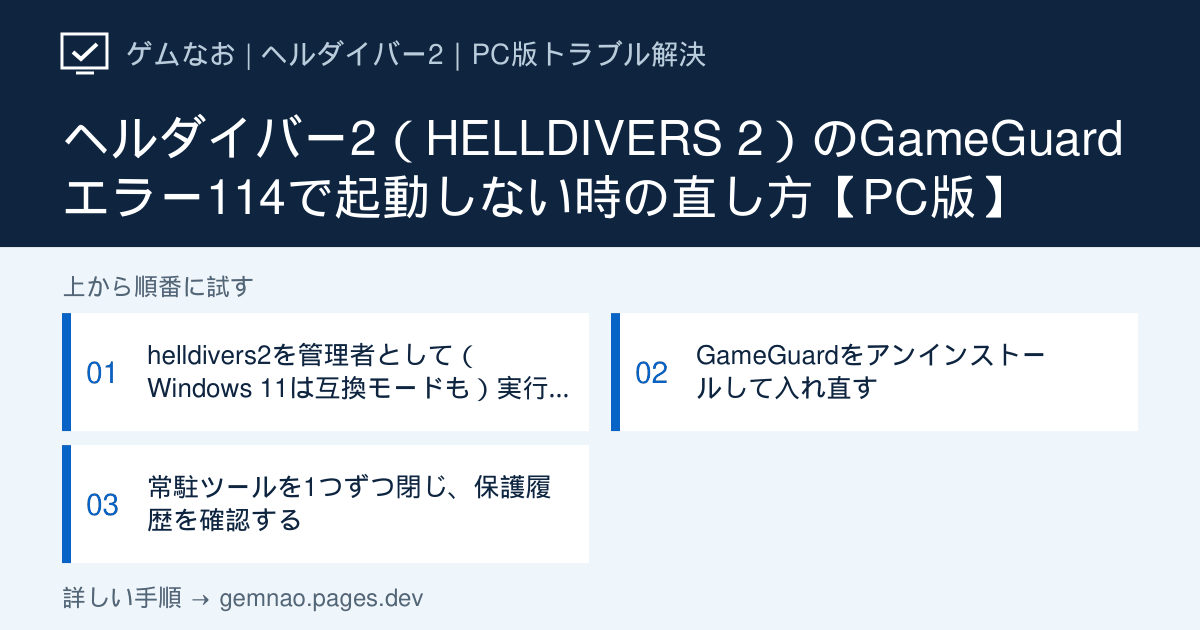
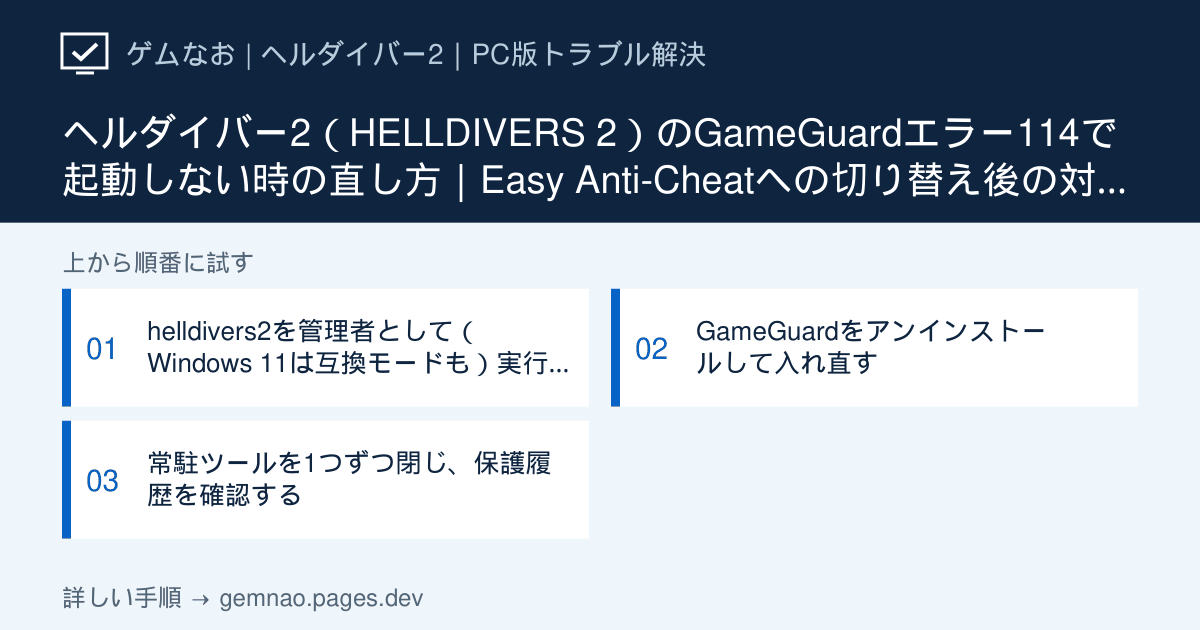
Phantom Blade Zero・Castlevania・HELLDIVERS 2の記事を公式の最新情報に更新
- Phantom Blade Zero：11月4日のパッチ（Version 1.0302256）で、レイトレーシング用の
  シェーダーを起動時にコンパイルしなくなったこと、Bluetoothコントローラーの
  カクつき軽減、更新後に落ちる・カクつく時のシェーダーキャッシュの削除
  （PBZ\ProjectPBZ\Saved\Cache）とMODを外す公式の案内を追記（日本語・英語）
- Castlevania: Belmont’s Curse：Ver.1.1.4（11月6日）の、読み込み後の黒い画面の
  修正とV-Syncオフで起動しない問題への追加の対策を反映（日本語・英語）
- HELLDIVERS 2：10月20日の7.2.0でGameGuardからEasy Anti-Cheatに切り替わったことを
  反映。まず最新版に更新するよう案内し、GameGuardの手順は7.2.0より前の版の情報と
  明記。URLとSTEPのidは変更なし

Claude-Session: https://claude.ai/code/session_012qBvfLeXJKFbVbmjsB9psj

diff --git a/lib/localized/upcoming-launch-en.ts b/lib/localized/upcoming-launch-en.ts
@@ -9,21 +9,21 @@ const winver='Press Windows+R, run winver and record the Windows version.';
 const common={locale:'en' as const,slug:'not-launching',checkedAt:'2026-10-18'};
 const sources=(game:string)=>upcomingReleaseArticles.find(a=>a.gameSlug===game)!.sources!.map(s=>({url:s.url,label:s.url.includes('konami.com')?'KONAMI: confirmed issues and V-Sync workaround (Japanese)':s.url.includes('/news/')?'Publisher’s Steam announcements: original release and update references':'Steam: official requirements and features'}));
 export const upcomingLaunchEn:LocalizedArticle[]=[
-{...common,gameSlug:'castlevania-belmonts-curse',gameName:'Castlevania: Belmont’s Curse',sourcePolicy:'English adaptation of the October 17 Japanese review. KONAMI’s V-Sync workaround and Steam Deck issue were rechecked. Store specifications, edition details and the October 16 version 1.1.3 baseline retain the original review; the store returned an age-verification page on this recheck. No hardware testing or later patch coverage is claimed.',title:'Castlevania: Belmont’s Curse Black Screen and PC Launch Checks',shortTitle:'Black screen and launch checks',description:'Use KONAMI’s below-60-Hz workaround for the V-Sync-off/unlimited-FPS issue, then restore the refresh rate. Check Windows 11, files, controller input and edition extras.',lead:'For a black screen at launch, immediate crashes, an unresponsive controller or missing Midnight Edition extras.',summary:'KONAMI identifies a launch issue when V-Sync is off and FPS is unlimited. Apply available updates, including the original review’s 1.1.3 fix baseline. If it persists, temporarily select a supported refresh rate below 60 Hz in Windows, enable V-Sync in the game, exit and restore the original refresh rate. Do not invent an unsupported display mode.',quickFacts:[{label:'Official black-screen workaround',value:'Supported refresh rate below 60 Hz → launch → Settings → Video → V-Sync On → exit → restore refresh rate.'},{label:'Original patch baseline',value:'Version 1.1.3, October 16; the original notice said some systems could remain affected. Check later updates.'},{label:'Minimum from the original store review',value:'Windows 11; Core i5-8400; GTX 1650; 16 GB RAM; DirectX 11; 10 GB available.'},{label:'Recommended from the original store review',value:'Windows 11; Core i5-10400; RTX 3060; 16 GB RAM.'},{label:'Release date',value:'October 15, 2026'},{label:'Controls',value:'The original store review lists full controller support and DualSense, recommends a gamepad and also allows keyboard play.'},{label:'Midnight Edition',value:'Base game, a separate digital sound/art gallery app and three in-game items.'}],diagnosis:[row('Launch stays on a black screen','Check the documented V-Sync/unlimited-FPS condition.','step-5'),row('It will not launch on Windows 10','The listed OS requirement is Windows 11.','step-1'),row('It still crashes after the workaround','Compare driver, files and background tools.','step-2'),row('Controller input fails or mappings differ','Compare Steam Input with one device.','step-3'),row('The art gallery is missing from the game menu','It is a separate application.','step-4')],steps:[
-step('step-5','Use the official V-Sync workaround','The temporary Windows change makes the game’s video menu accessible on affected systems.','About 10 minutes',['Apply available Steam updates; the original review’s fix baseline is version 1.1.3 or later.','If it still will not launch, record the current refresh rate. In Windows Settings → System → Display → Advanced display, select a supported rate below 60 Hz.','Launch the game, open Settings → Video from the title screen, enable V-Sync and exit the game.','Restore the original Windows refresh rate, then compare launch again.'],'Some monitors do not offer a rate below 60 Hz. Do not force a custom mode; use KONAMI support if the workaround is unavailable or does not help.'),
+{...common,gameSlug:'castlevania-belmonts-curse',gameName:'Castlevania: Belmont’s Curse',sourcePolicy:'English adaptation of the October 17 Japanese review. KONAMI’s V-Sync workaround and Steam Deck issue were rechecked. Store specifications, edition details and the October 16 version 1.1.3 baseline retain the original review; the store returned an age-verification page on this recheck. No hardware testing or later patch coverage is claimed.',title:'Castlevania: Belmont’s Curse Black Screen and PC Launch Checks',shortTitle:'Black screen and launch checks',description:'Use KONAMI’s below-60-Hz workaround for the V-Sync-off/unlimited-FPS issue, then restore the refresh rate. Check Windows 11, files, controller input and edition extras.',lead:'For a black screen at launch, immediate crashes, an unresponsive controller or missing Midnight Edition extras.',summary:'KONAMI identifies a launch issue when V-Sync is off and FPS is unlimited. Update to version 1.1.4 (November 6) or later, which added further black-screen fixes. If it persists, temporarily select a supported refresh rate below 60 Hz in Windows, enable V-Sync in the game, exit and restore the original refresh rate. Do not invent an unsupported display mode.',quickFacts:[{label:'Official black-screen workaround',value:'Supported refresh rate below 60 Hz → launch → Settings → Video → V-Sync On → exit → restore refresh rate.'},{label:'Fix updates',value:'Version 1.1.3 (October 16) and 1.1.4 (November 6: a black screen after loading fixed, and further fixes for launch failure with V-Sync off).'},{label:'Minimum from the original store review',value:'Windows 11; Core i5-8400; GTX 1650; 16 GB RAM; DirectX 11; 10 GB available.'},{label:'Recommended from the original store review',value:'Windows 11; Core i5-10400; RTX 3060; 16 GB RAM.'},{label:'Release date',value:'October 15, 2026'},{label:'Controls',value:'The original store review lists full controller support and DualSense, recommends a gamepad and also allows keyboard play.'},{label:'Midnight Edition',value:'Base game, a separate digital sound/art gallery app and three in-game items.'}],diagnosis:[row('Launch stays on a black screen','Check the documented V-Sync/unlimited-FPS condition.','step-5'),row('It will not launch on Windows 10','The listed OS requirement is Windows 11.','step-1'),row('It still crashes after the workaround','Compare driver, files and background tools.','step-2'),row('Controller input fails or mappings differ','Compare Steam Input with one device.','step-3'),row('The art gallery is missing from the game menu','It is a separate application.','step-4')],steps:[
+step('step-5','Use the official V-Sync workaround','The temporary Windows change makes the game’s video menu accessible on affected systems.','About 10 minutes',['Update in Steam to version 1.1.4 or later. Once the game starts, the version number appears at the bottom of the title screen.','If it still will not launch, record the current refresh rate. In Windows Settings → System → Display → Advanced display, select a supported rate below 60 Hz.','Launch the game, open Settings → Video from the title screen, enable V-Sync and exit the game.','Restore the original Windows refresh rate, then compare launch again.'],'Some monitors do not offer a rate below 60 Hz. Do not force a custom mode; use KONAMI support if the workaround is unavailable or does not help.'),
 step('step-1','Check Windows 11 and the full hardware baseline','The original store review lists Windows 11 for both minimum and recommended configurations.','About 3 minutes',[winver,'Open Task Manager → Performance → GPU and compare the exact model with GTX 1650.','Confirm at least 16 GB RAM and 10 GB of available storage.']),
 step('step-2','Compare driver, files and overlays','Test after each change to retain a useful result.','About 15 minutes',[driver,verify,'Temporarily disable Discord/Steam overlays and recording/FPS tools for comparison; restore them individually if they make no difference.']),
 step('step-3','Compare Steam Input with one controller','An extra translation layer may affect the result; controller support alone does not identify the cause.','About 5 minutes',['Connect one controller by USB.','In Steam Library → Properties → Controller, record the current Steam Input override and compare the alternative.','Close other controller remappers before testing.'],'See the linked Steam Input guide for the per-game comparison and restoration steps.'),
-step('step-4','Check the edition and separate gallery app','The original review describes a separate gallery with over 100 artworks and a music player.','About 3 minutes',['Look for the digital sound/art gallery separately in the Steam Library.','Compare your purchase with the three Midnight Edition items described in the original review: Trevor-style costume, Sypha-style costume and the family-portrait relic. These are descriptive translations, not newly verified English menu labels.','The Alucard-style costume is the preorder bonus; do not assume a later purchase includes it.'],'Use the publisher’s release instructions for in-game delivery rather than guessing an unverified claim location.')],avoid:['Do not use unofficial modifications to bypass hardware or OS requirements.','Compare the edition and separate extras before buying the same content twice.'],cautions:['The original October 16 review described further black-screen work in progress. Check later official announcements instead of assuming 1.1.3 is the newest patch.','KONAMI’s current issue notice also describes some Steam Deck UI appearing outside the screen.'],faqs:[faq('Why does a high-refresh-rate monitor show a black screen?','KONAMI identifies the combination of V-Sync off and unlimited FPS. Apply updates first, then use the supported below-60-Hz workaround, enable V-Sync, exit and restore the original rate. Not every black screen proves this cause.'),faq('Is Windows 10 in the listed requirements?','The original Steam review lists Windows 11 for both minimum and recommended configurations.'),faq('Does it include Japanese voices?','The original store-language review lists Japanese interface, subtitles and audio. This translation does not add a voice-playback test.'),faq('Is a GTX 1660 enough?','It is above the listed GTX 1650 GPU baseline, while RTX 3060 is recommended. Also check Windows 11, CPU, memory and storage; GPU alone is not a whole-system guarantee.')],sources:sources('castlevania-belmonts-curse'),related:[{href:'/en/guide/steam-input-controller',label:'Steam Input and controller checks'}]},
+step('step-4','Check the edition and separate gallery app','The original review describes a separate gallery with over 100 artworks and a music player.','About 3 minutes',['Look for the digital sound/art gallery separately in the Steam Library.','Compare your purchase with the three Midnight Edition items described in the original review: Trevor-style costume, Sypha-style costume and the family-portrait relic. These are descriptive translations, not newly verified English menu labels.','The Alucard-style costume is the preorder bonus; do not assume a later purchase includes it.'],'Use the publisher’s release instructions for in-game delivery rather than guessing an unverified claim location.')],avoid:['Do not use unofficial modifications to bypass hardware or OS requirements.','Compare the edition and separate extras before buying the same content twice.'],cautions:['Version 1.1.4 (November 6) added further black-screen fixes. If the game still will not launch, use the workaround above and check KONAMI’s latest notices.','KONAMI’s current issue notice also describes some Steam Deck UI appearing outside the screen.'],faqs:[faq('Why does a high-refresh-rate monitor show a black screen?','KONAMI identifies the combination of V-Sync off and unlimited FPS. Apply updates first, then use the supported below-60-Hz workaround, enable V-Sync, exit and restore the original rate. Not every black screen proves this cause.'),faq('Is Windows 10 in the listed requirements?','The original Steam review lists Windows 11 for both minimum and recommended configurations.'),faq('Does it include Japanese voices?','The original store-language review lists Japanese interface, subtitles and audio. This translation does not add a voice-playback test.'),faq('Is a GTX 1660 enough?','It is above the listed GTX 1650 GPU baseline, while RTX 3060 is recommended. Also check Windows 11, CPU, memory and storage; GPU alone is not a whole-system guarantee.')],sources:sources('castlevania-belmonts-curse'),related:[{href:'/en/guide/steam-input-controller',label:'Steam Input and controller checks'}]},
 {...common,gameSlug:'tales-of-eternia-remastered',gameName:'Tales of Eternia Remastered',sourcePolicy:'English adaptation of the October 17 Japanese guide. The Steam requirements and feature descriptions were rechecked, including the conflicting-looking OS/VRAM note. Historical launch time and edition detail retain the original announcement review; no alternative renderer or launch option is invented.',title:'Tales of Eternia Remastered Not Launching: Windows, DX12 and VRAM Checks',shortTitle:'Launch, DX12 and display checks',description:'Distinguish the listed Windows 11 requirement from the separate DX12 note. Check dedicated VRAM, drivers, files, Steam Input and Deluxe Edition installation.',lead:'For a launch failure, immediate crash, DirectX 12 error, controller problem or missing Deluxe extras on Steam.',summary:'The store lists Windows 11 and relatively old GPUs, but separately says DirectX 12 requires Windows 10 1809 or later and at least 4 GB VRAM. Keep those statements separate: the note is not proof of general Windows 10 support or an alternative renderer for smaller GPUs. Check the actual OS, dedicated VRAM and driver before reinstalling anything.',quickFacts:[{label:'Listed minimum and recommended hardware',value:'Windows 11; Core i3-8100 or Ryzen 3 3100; GTX 650 Ti 1 GB, HD 7770 2 GB or Arc A310 4 GB; 4 GB RAM; 8 GB space.'},{label:'Separate DX12 note',value:'Windows 10 1809 or later and a GPU with at least 4 GB VRAM. Do not read this as overriding the Windows 11 OS field.'},{label:'Launch timing in the original announcement review',value:'October 15, 2026, 15:00 Pacific / October 16, 07:00 Japan.'},{label:'Saves',value:'Steam Cloud is listed; keep independent copies for important progress.'},{label:'Deluxe contents',value:'Digital artbook/soundtrack, Battle BGM Pack and Super Growth Support Item Set. The original announcement review records 109 soundtrack tracks.'}],diagnosis:[row('An older Windows PC cannot launch','Compare the OS field and the separate DX12 note.','step-1'),row('A DX12 error appears on a small-VRAM GPU','Compare dedicated VRAM with the 4 GB note.','step-2'),row('It crashes immediately or remains black','Compare driver, files and background tools.','step-3'),row('The controller does not respond','Compare Steam Input.','step-4'),row('Battle music or growth items are missing','Check ownership and installed edition content.','step-5')],steps:[
 step('step-1','Record the Windows version','The main minimum and recommended OS fields both list Windows 11.','About 3 minutes',[winver,'For Windows 10, also record whether it meets the note’s 1809-or-later condition, but do not treat that as confirmed support for the whole game.']),
 step('step-2','Check dedicated VRAM for the DX12 condition','The named 1 GB and 2 GB GPUs sit below the separate 4 GB DX12 condition; the store does not resolve that discrepancy here.','About 3 minutes',['Open Task Manager → Performance → GPU and read dedicated GPU memory capacity, not shared memory.','If a DX12 error coincides with less than 4 GB dedicated VRAM, record that unmet note for publisher support rather than assuming a driver update changes capacity.'],'The cited store text does not establish a supported non-DX12 launch method for those smaller GPUs. Do not invent a launch argument; check publisher guidance.'),
 step('step-3','Compare official driver, file verification and overlays','Use one change at a time for an immediate crash or black screen.','About 15 minutes',[driver,verify,'Compare with Discord/Steam overlays and recording/FPS tools disabled, then restore ineffective changes.']),
 step('step-4','Compare the per-game Steam Input setting','The original store review records full controller support including DUALSHOCK and DualSense.','About 5 minutes',['Connect one controller over USB.','Open Steam Library → Properties → Controller, record the current override and compare Steam Input on/off.'],'Use the related Steam Input guide; restore the previous setting if it does not help.'),
 step('step-5','Check Deluxe ownership and installed content','The edition includes the artbook/soundtrack, alternate battle music and growth items.','About 3 minutes',['Inspect the Steam DLC/library entries for your owned Deluxe add-ons and installation state.','A standard-edition purchase does not itself include the Deluxe extras.'],'Use the publisher’s release instructions for claim locations and music selection; those exact in-game controls are not verified here.')],avoid:['Do not start with a Windows reinstall before checking OS and VRAM conditions.','Do not use unofficial patches to bypass requirements.'],cautions:['The original October 17 review had not identified a publisher issue notice. That historical observation is not a claim that no later issue or fix exists; check official announcements.'],faqs:[faq('Will an old laptop run it?','The store gives 1080p/60 FPS Low and High targets for the listed configurations, with possible drops in demanding scenes. Windows 11 and the separate 4 GB DX12 note still matter, and an old laptop is not qualified by age or GPU family alone.'),faq('Can I use the original presentation style?','The official store describes switching graphics and sound effects between modes to evoke the original presentation.'),faq('Can I disable encounters?','The store lists an option to disable enemy encounters, alongside destination markers and faster auto-battle. This translation does not claim a new gameplay test.')],sources:sources('tales-of-eternia-remastered'),related:[{href:'/en/guide/directx-error',label:'DirectX error checks'},{href:'/en/guide/steam-input-controller',label:'Steam Input and controller checks'}]},
-{...common,gameSlug:'phantom-blade-zero',gameName:'Phantom Blade Zero',sourcePolicy:'English adaptation of the prerelease Japanese review. Steam’s SSD, GPU and upscaling requirements and its October 28 display date were rechecked. The director-letter details retain the original official-announcement review. The game was still listed as a prepurchase at this check; no retail gameplay or error reproduction is claimed.',title:'Phantom Blade Zero PC Launch Preparation: SSD, GPU and Upscaling Checks',shortTitle:'SSD, launch and performance checks',description:'Prepare for the PC release with the required SSD and published upscaling-based targets. Compare supported graphics options after release without inventing launch fixes or measured performance.',lead:'Prerelease preparation for future launch failures, long loads or low FPS. First check release availability; a locked preload is not evidence of a broken installation.',summary:'Steam requires SSD installation even at minimum specifications. The minimum target is 1080p/30 FPS with upscaling, and the recommended target is 1440p/60 FPS with upscaling. After release, use only graphics options actually present and compare one change at a time; these are preparation steps, not reproduced retail fixes.',quickFacts:[{label:'Required platform',value:'SSD installation, 64-bit Windows 10/11 and DirectX 12.'},{label:'Minimum target',value:'GTX 1660 6 GB or RX 5500 XT 8 GB; Core i7-8700K or Ryzen 5 3600; 16 GB RAM. 1080p/30 FPS with upscaling.'},{label:'Recommended target',value:'RTX 3060 Ti 8 GB or RX 6700 XT 12 GB; Core i5-10600K or Ryzen 5 5600X; 16 GB RAM. 1440p/60 FPS with upscaling.'},{label:'Ray tracing',value:'The original official-letter review says the visuals were designed to remain effective without it; do not treat it as mandatory.'},{label:'Japanese language',value:'Steam lists Japanese interface/subtitles, without Japanese audio.'}],diagnosis:[row('Loading is slow after release','Confirm installation is on an SSD.','step-1'),row('An older GPU cannot launch or performs poorly','Compare the complete minimum baseline.','step-2'),row('FPS is low after release','Compare available upscaling and ray-tracing controls.','step-3'),row('It crashes immediately after release','Compare driver, installation files and background tools.','step-4')],steps:[
+{...common,gameSlug:'phantom-blade-zero',gameName:'Phantom Blade Zero',sourcePolicy:'English adaptation of the prerelease Japanese review. Steam’s SSD, GPU and upscaling requirements and its October 28 display date were rechecked. The director-letter details retain the original official-announcement review. The game was still listed as a prepurchase at this check; no retail gameplay or error reproduction is claimed.',title:'Phantom Blade Zero PC Launch Preparation: SSD, GPU and Upscaling Checks',shortTitle:'SSD, launch and performance checks',description:'Prepare for the PC release with the required SSD and published upscaling-based targets. Compare supported graphics options after release without inventing launch fixes or measured performance.',lead:'Prerelease preparation for future launch failures, long loads or low FPS. First check release availability; a locked preload is not evidence of a broken installation.',summary:'Steam requires SSD installation even at minimum specifications. The minimum target is 1080p/30 FPS with upscaling, and the recommended target is 1440p/60 FPS with upscaling. Compare upscaling and ray tracing one change at a time. If the game crashes or stutters after an update, clear the shader cache as the developer advises and relaunch.',quickFacts:[{label:'Required platform',value:'SSD installation, 64-bit Windows 10/11 and DirectX 12.'},{label:'Minimum target',value:'GTX 1660 6 GB or RX 5500 XT 8 GB; Core i7-8700K or Ryzen 5 3600; 16 GB RAM. 1080p/30 FPS with upscaling.'},{label:'Recommended target',value:'RTX 3060 Ti 8 GB or RX 6700 XT 12 GB; Core i5-10600K or Ryzen 5 5600X; 16 GB RAM. 1440p/60 FPS with upscaling.'},{label:'Ray tracing',value:'The original official-letter review says the visuals were designed to remain effective without it; do not treat it as mandatory.'},{label:'Japanese language',value:'Steam lists Japanese interface/subtitles, without Japanese audio.'}],diagnosis:[row('Loading is slow after release','Confirm installation is on an SSD.','step-1'),row('An older GPU cannot launch or performs poorly','Compare the complete minimum baseline.','step-2'),row('FPS is low after release','Compare available upscaling and ray-tracing controls.','step-3'),row('It crashes immediately after release','Compare driver, installation files and background tools.','step-4')],steps:[
 step('step-1','Identify the installation drive','SSD installation is part of both Steam configurations.','About 5 minutes',['Open Steam Settings → Storage and identify the game’s drive.','In Task Manager → Performance, compare the drive identity and SSD/HDD type.','If it is on an HDD, use Steam’s supported Storage move operation to a suitable SSD when installation/moving is available; preserve important data first.']),
 step('step-2','Compare GPU, RAM and CPU','The minimum target assumes upscaling rather than native rendering.','About 3 minutes',['In Task Manager → Performance → GPU, record the exact GPU and dedicated memory against GTX 1660 6 GB or RX 5500 XT 8 GB.','Confirm at least 16 GB system RAM.','Compare the CPU with Core i7-8700K or Ryzen 5 3600.']),
-step('step-3','After release, compare the actual graphics controls','Published minimum and recommended targets both assume upscaling.','About 5 minutes',['Record current settings and enable an available supported upscaler such as DLSS or FSR only if the game offers it.','Separately disable ray tracing if that control exists, then compare the same scene.','Compare 1080p against the published minimum 30 FPS target; do not treat the target as a guaranteed measurement.'],'Retail control names and availability were not tested. Restore changes that do not help.'),
-step('step-4','Check the GPU driver and day-one patch, then the files','For crashes or unstable performance after launch. The developer reported performance instability with NVIDIA driver 621.01 and recommends 617.42 until NVIDIA’s next driver.','About 15 minutes',['On NVIDIA, if a driver newer than 617.42 (such as 621.01) is installed, roll back to 617.42 as officially recommended and choose the clean installation option. On AMD or Intel, use the current official driver.','If you pre-loaded, confirm the roughly 5 GB day-one patch downloaded and installed in Steam before launching, then '+verify.charAt(0).toLowerCase()+verify.slice(1),'Compare with Discord/Steam overlays and recording/FPS tools disabled, restoring ineffective changes.'])],avoid:['Do not keep reducing quality while ignoring the SSD requirement.','Do not use unofficial tools that modify DRM files; the Steam listing identifies Denuvo.'],cautions:['The 617.42 recommendation applies until NVIDIA’s next driver, per the official notice checked October 30. When a new driver arrives, check whether the official guidance has changed.'],faqs:[faq('Is GTX 1660 included in the minimum?','Yes, the 6 GB model is listed with a 1080p/30 FPS target using upscaling. SSD installation and the other requirements still apply.'),faq('Is Windows 10 listed?','The store lists 64-bit Windows 10/11. This game requirement is not a recommendation to use an unsupported Windows installation.'),faq('When is the release?','The official pre-load notice gives October 28, 2026 at 7:00 PM PDT (October 29, 11:00 JST). The game is about 145 GB, and the notice asks for at least 300 GB of free space during pre-load. It was delayed from September 9.'),faq('Can I use a controller?','The original store review records full controller support, recommends a gamepad and lists DUALSHOCK/DualSense support. Retail controller behavior has not been tested here.')],sources:sources('phantom-blade-zero'),related:[{href:'/en/guide/steam-game-not-launching',label:'General Steam launch checks'}]},
+step('step-3','Compare upscaling and ray tracing','Published minimum and recommended targets both assume upscaling. Since the November 4 patch (Version 1.0302256), ray-tracing shaders are no longer compiled at startup by default, which greatly shortens startup.','About 5 minutes',['Record current settings and enable an available supported upscaler such as DLSS or FSR only if the game offers it.','Separately disable ray tracing, then compare the same scene. If you turn it back on, its shaders are compiled separately on the next restart (official).','Compare 1080p against the published minimum 30 FPS target; do not treat the target as a guaranteed measurement.'],'Players who had ray tracing off recompile shaders once on the first launch after the November 4 patch; the developer says this is short. Restore changes that do not help.'),
+step('step-4','Check the GPU driver and day-one patch, then the files','For crashes or unstable performance after launch. The developer reported performance instability with NVIDIA driver 621.01 and recommends 617.42 until NVIDIA’s next driver.','About 15 minutes',['On NVIDIA, if a driver newer than 617.42 (such as 621.01) is installed, roll back to 617.42 as officially recommended and choose the clean installation option. On AMD or Intel, use the current official driver.','If you pre-loaded, confirm the roughly 5 GB day-one patch downloaded and installed in Steam before launching, then '+verify.charAt(0).toLowerCase()+verify.slice(1),'If it crashes or stutters after an update, right-click the game in Steam → Manage → Browse local files, open PBZ\\ProjectPBZ\\Saved\\Cache and delete the files inside, then relaunch (official advice; shaders recompile quickly). Remove any mods. Also compare with Discord/Steam overlays and recording/FPS tools disabled, restoring ineffective changes.'])],avoid:['Do not keep reducing quality while ignoring the SSD requirement.','Do not use unofficial tools that modify DRM files; the Steam listing identifies Denuvo.'],cautions:['The 617.42 recommendation applies until NVIDIA’s next driver, per the official notice checked October 30. When a new driver arrives, check whether the official guidance has changed.'],faqs:[faq('Is GTX 1660 included in the minimum?','Yes, the 6 GB model is listed with a 1080p/30 FPS target using upscaling. SSD installation and the other requirements still apply.'),faq('Is Windows 10 listed?','The store lists 64-bit Windows 10/11. This game requirement is not a recommendation to use an unsupported Windows installation.'),faq('When is the release?','The official pre-load notice gives October 28, 2026 at 7:00 PM PDT (October 29, 11:00 JST). The game is about 145 GB, and the notice asks for at least 300 GB of free space during pre-load. It was delayed from September 9.'),faq('Can I use a controller?','The original store review records full controller support, recommends a gamepad and lists DUALSHOCK/DualSense support. The November 4 patch reduced stutter with Bluetooth-connected controllers.')],sources:sources('phantom-blade-zero'),related:[{href:'/en/guide/steam-game-not-launching',label:'General Steam launch checks'}]},
 ];

diff --git a/lib/upcoming-release-articles.ts b/lib/upcoming-release-articles.ts
@@ -28,23 +28,23 @@ export const upcomingReleaseArticles: GameArticle[] = [
     gameSlug: 'castlevania-belmonts-curse',
     slug: 'not-launching',
     category: 'launch',
-    checkedAt: '2026-10-17',
+    checkedAt: '2026-11-09',
     seoTitle:
       'Castlevania: Belmont’s Curse（悪魔城）が起動しない・黒い画面の対処法【PC版】',
     title:
       'Castlevania: Belmont’s Curse（キャッスルヴァニア ベルモンドの呪い）が起動しない・黒い画面のまま進まない時の対処法【PC版】',
     shortTitle: '起動しない・黒い画面',
     targetVersion:
-      'Steam版・Ver.1.1.3と2026年10月16日時点のKONAMIの不具合のお知らせ',
+      'Steam版・Ver.1.1.4（11月6日）とKONAMIの不具合のお知らせ（2026年11月9日確認）',
     symptom:
       'PC版が起動しない、黒い画面のまま進まない、起動直後に落ちる、コントローラーが反応しない、Midnight Editionのアートギャラリーや特典が見当たらない場合の確認手順です。',
     conclusion:
-      'KONAMIは、垂直同期（V-Sync）がOFFでFPSが「無制限」のとき、高リフレッシュレートのモニターでゲームが起動せず黒い画面になる不具合を認めています。まずゲームをVer.1.1.3以降に更新し、それでも起動しない時は、Windowsでモニターのリフレッシュレートを一時的に60Hz未満に下げてゲームを起動し、映像設定でV-SyncをONにしてから元に戻します（公式の手順）。動作環境は最低・推奨ともWindows 11です。',
+      'KONAMIは、垂直同期（V-Sync）がOFFでFPSが「無制限」のとき、高リフレッシュレートのモニターでゲームが起動せず黒い画面になる不具合を認めています。まずゲームをVer.1.1.4以降に更新し、それでも起動しない時は、Windowsでモニターのリフレッシュレートを一時的に60Hz未満に下げてゲームを起動し、映像設定でV-SyncをONにしてから元に戻します（公式の手順）。動作環境は最低・推奨ともWindows 11です。',
     description:
-      '2026年10月15日に発売されました。10月16日のVer.1.1.3で黒い画面の不具合への対策が配信されましたが、環境によってはまだ起きる場合があるとKONAMIは案内しています。日本語は字幕と音声の両方に対応しています。',
+      '2026年10月15日に発売されました。10月16日のVer.1.1.3で黒い画面の不具合への対策が配信され、11月6日のVer.1.1.4では、条件によって読み込み後に画面が黒いままになる問題の修正と、V-Syncをオフにすると起動しない問題への追加の対策が入りました。Ver.1.1.4からは、タイトル画面の下にバージョン番号が表示されます。日本語は字幕と音声の両方に対応しています。',
     causes: [
       'V-SyncがOFF・FPSが「無制限」で、高リフレッシュレートのモニターを使っている（KONAMIが確認している不具合）',
-      'ゲームがVer.1.1.3より古い',
+      'ゲームがVer.1.1.4より古い',
       'Windows 11ではない（最低環境からWindows 11）',
       'GPUドライバーが古い・ゲームファイルの破損',
       'オーバーレイや録画ツールの干渉',
@@ -60,7 +60,7 @@ export const upcomingReleaseArticles: GameArticle[] = [
       {
         label: '修正アップデート',
         value:
-          'Ver.1.1.3（10月16日）。環境によってはまだ起きる場合あり（KONAMI）',
+          'Ver.1.1.3（10月16日）・Ver.1.1.4（11月6日。読み込み後の黒い画面の修正と、V-Syncオフで起動しない問題への追加の対策）',
       },
       {
         label: '最低動作環境',
@@ -122,7 +122,7 @@ export const upcomingReleaseArticles: GameArticle[] = [
         time: '約10分',
         risk: 'low',
         actions: [
-          'Steamでゲームを最新版（Ver.1.1.3以降）に更新する。ライブラリでゲームを選び、更新が残っていないか確認する',
+          'Steamでゲームを最新版（Ver.1.1.4以降）に更新する。起動できたら、タイトル画面の下に表示されるバージョン番号で確認できる',
           'それでも起動しない時：Windowsの「設定」→「システム」→「ディスプレイ」→「ディスプレイの詳細設定」で、リフレッシュレートを60Hz未満にする',
           'ゲームを起動し、タイトル画面の「設定（Settings）」→「映像（Video）」で「V-Sync」をONにして、ゲームを一度終了する',
           'Windowsのリフレッシュレートを元の値に戻し、通常の起動で同じ黒画面が再発するか確認する。公式の回避策であり、このPCでの改善結果は実際の表示で判断する',
@@ -188,14 +188,14 @@ export const upcomingReleaseArticles: GameArticle[] = [
       'Midnight Editionと単品の特典を重複して買わないよう、購入前に内容を確認する',
     ],
     cautions: [
-      'KONAMIは、黒い画面の不具合を完全に直すアップデートを準備中です（2026年10月16日時点）。最新のお知らせもあわせて確認してください。',
+      'Ver.1.1.4（11月6日）で黒い画面の問題に追加の対策が入りました。それでも起動しない場合は、上の回避策を試し、KONAMIの最新のお知らせもあわせて確認してください。',
       'Steam Deckでは一部の画面表示が画面外にはみ出す不具合を、KONAMIが確認しています（修正を検討中）。',
     ],
     faqs: [
       {
         question: '144Hzや240Hzのモニターで、起動すると黒い画面のままです。',
         answer:
-          'KONAMIが確認している不具合です。V-SyncがOFFでFPSが「無制限」だと起動できないことがあります。Ver.1.1.3に更新し、それでも直らなければ、Windowsでリフレッシュレートを一時的に60Hz未満にして起動し、映像設定でV-SyncをONにしてから元の値に戻してください（公式の手順）。',
+          'KONAMIが確認している不具合です。V-SyncがOFFでFPSが「無制限」だと起動できないことがあります。Ver.1.1.4以降に更新し、それでも直らなければ、Windowsでリフレッシュレートを一時的に60Hz未満にして起動し、映像設定でV-SyncをONにしてから元の値に戻してください（公式の手順）。',
       },
       {
         question: 'Windows 10で遊べますか？',
@@ -221,7 +221,7 @@ export const upcomingReleaseArticles: GameArticle[] = [
       },
       {
         label:
-          'Steamニュース（公式）：Notice regarding Black Screen for High Refresh Rate Monitors（Ver.1.1.3）',
+          'Steamニュース（公式）：Ver.1.1.3（高リフレッシュレートの黒い画面）・Ver.1.1.4（読み込み後の黒い画面・V-Syncオフで起動しない問題）',
         url: 'https://store.steampowered.com/news/app/4231820',
       },
       {
@@ -423,17 +423,18 @@ export const upcomingReleaseArticles: GameArticle[] = [
     gameSlug: 'phantom-blade-zero',
     slug: 'not-launching',
     category: 'launch',
-    checkedAt: '2026-10-30',
+    checkedAt: '2026-11-09',
     seoTitle:
       'Phantom Blade Zero（影の刃零）が起動しない・重い時の対処法【PC版】',
     title:
       'Phantom Blade Zero（ファントムブレード ゼロ）が起動しない・重い時の対処法【PC版】',
     shortTitle: '起動しない・重い',
-    targetVersion: 'Steam版・2026年10月30日時点の公式情報（発売後）',
+    targetVersion:
+      'Steam版・Version 1.0302256（11月4日のパッチ）・2026年11月9日時点の公式情報',
     symptom:
       'PC版が起動しない、起動直後に落ちる、読み込みが長い、フレームレートが低い・カクつく場合の確認手順です。',
     conclusion:
-      '最低環境からSSDへのインストールが必須です。最低環境（GTX 1660 6GB・RX 5500 XT 8GB）の目安は、アップスケーリングを使って1080p・30fpsです。発売後に起動可能となってから、実際に選べるアップスケーリングとレイトレーシング設定を1項目ずつ比較します。製品版の実測結果ではありません。公式は、レイトレーシングなしでも見た目の迫力を保つよう調整したと説明しています。',
+      '最低環境からSSDへのインストールが必須です。最低環境（GTX 1660 6GB・RX 5500 XT 8GB）の目安は、アップスケーリングを使って1080p・30fpsです。重い時は、アップスケーリングとレイトレーシングの設定を1項目ずつ比べます。アップデートの後に落ちる・カクつく場合は、公式の案内どおりシェーダーキャッシュを削除して起動し直します。公式は、レイトレーシングなしでも見た目の迫力を保つよう調整したと説明しています。',
     description:
       '公式の案内では、配信開始は日本時間2026年10月29日11時（太平洋夏時間10月28日19時）です。Steamストアの日本語表示は10月28日です（9月9日から延期）。容量は約145GBで、予約ダウンロード中は300GB以上の空きが必要と公式が案内しています。発売時には約5GBのデイワンパッチが配信され、予約ダウンロードした人は起動前に適用するよう案内されています。DRMにDenuvoが使われています（Steamストアの表記）。日本語はインターフェース・字幕に対応し、音声は日本語に対応していません。',
     causes: [
@@ -523,15 +524,15 @@ export const upcomingReleaseArticles: GameArticle[] = [
         id: 'step-3',
         title: 'アップスケーリングをONにし、レイトレーシングを切る',
         summary:
-          '最低・推奨の目安はどちらもアップスケーリングを使った場合の数値です。レイトレーシングは見た目を上げる機能で、なくても遊べるよう調整されていると公式は説明しています。',
+          '最低・推奨の目安はどちらもアップスケーリングを使った場合の数値です。レイトレーシングは見た目を上げる機能で、なくても遊べるよう調整されていると公式は説明しています。11月4日のパッチ（Version 1.0302256）から、レイトレーシング用のシェーダーは起動時に既定でコンパイルされなくなり、起動が大きく短くなりました。',
         time: '約5分',
         risk: 'low',
         actions: [
           'ゲームのグラフィック設定でアップスケーリング（DLSS・FSRなど、表示される項目）をONにする',
-          'レイトレーシングの項目があればOFFにして、フレームレートを比べる',
+          'レイトレーシングをOFFにして、フレームレートを比べる。あとでONにした場合は、次に起動し直した時にレイトレーシング用のシェーダーが別にコンパイルされる（公式）',
           '解像度を1080pにして、最低環境の目安（30fps）が出るか確かめる',
         ],
-        note: '設定項目の名前は発売時の製品版で変わる場合があります。',
+        note: 'レイトレーシングをOFFにしていた人は、11月4日のパッチを適用した後の最初の起動で、シェーダーの再コンパイルが一度だけ行われます（公式。短時間で終わると案内）。',
       },
       {
         id: 'step-4',
@@ -545,7 +546,7 @@ export const upcomingReleaseArticles: GameArticle[] = [
           'NVIDIAのGPUで621.01など617.42より新しいドライバーを入れている場合は、公式の推奨どおり617.42に戻し、インストール時に「クリーンインストール」を選ぶ。AMD・IntelはAMD Software: Adrenalin Edition・Intelの公式サイトで最新のドライバーにする',
           '予約ダウンロードした場合は、起動前に約5GBのデイワンパッチがダウンロード・適用されたか、Steamのダウンロード画面で確認する。そのうえで' +
             steamVerify.replace('Steam：', ''),
-          'Discord・Steamのオーバーレイ、録画・FPS表示ツールをオフにして起動を比べる',
+          'アップデートの後に落ちる・カクつく場合は、Steamのライブラリで右クリック→「管理」→「ローカルファイルを閲覧」→「PBZ\\ProjectPBZ\\Saved\\Cache」フォルダの中のファイルを削除して起動し直す（公式の案内。シェーダーはすぐ再コンパイルされる）。MODを入れている場合は外す。オーバーレイや録画・FPS表示ツールもオフにして比べる',
         ],
       },
     ],
@@ -574,7 +575,7 @@ export const upcomingReleaseArticles: GameArticle[] = [
       {
         question: 'コントローラーで遊べますか？',
         answer:
-          'フルコントローラーサポートで、ゲームパッドが推奨されています。DUALSHOCK・DualSenseにも対応しています（Steamストアの表記）。',
+          'フルコントローラーサポートで、ゲームパッドが推奨されています。DUALSHOCK・DualSenseにも対応しています（Steamストアの表記）。Bluetoothで接続したコントローラーで起きていたカクつきは、11月4日のパッチで軽減されました。',
       },
     ],
     sources: [
@@ -585,7 +586,7 @@ export const upcomingReleaseArticles: GameArticle[] = [
       },
       {
         label:
-          'Steamニュース（公式）：Reason and Madness（デイワンパッチ・NVIDIAドライバー617.42の推奨）、Ready your blade!（配信開始時刻・容量）、A Letter From Creative Director（延期）',
+          'Steamニュース（公式）：Patch Notes (Version 1.0302256)（シェーダー・Bluetooth・シェーダーキャッシュの削除）、Reason and Madness（デイワンパッチ・NVIDIAドライバー617.42の推奨）、Ready your blade!（配信開始時刻・容量）',
         url: 'https://store.steampowered.com/news/app/4115450',
       },
     ],

diff --git a/lib/classic-game-articles.ts b/lib/classic-game-articles.ts
@@ -11,6 +11,8 @@ type Draft = Omit<
   'checkedAt' | 'symptoms' | 'seoTitle' | 'status'
 > & {
   seoTitle?: string;
+  /** Overrides the shared check date when an article is rechecked. */
+  checkedAt?: string;
 };
 
 const make = (draft: Draft): GameArticle => ({
@@ -353,19 +355,23 @@ export const classicGameArticles: GameArticle[] = [
     gameSlug: 'helldivers-2',
     slug: 'gameguard-error-114',
     category: 'launch',
-    seoTitle: 'ヘルダイバー2のGameGuardエラー114の直し方【PC版】',
+    seoTitle:
+      'ヘルダイバー2のGameGuardエラー114｜Easy Anti-Cheatへの切り替え後の対処【PC版】',
     title:
-      'ヘルダイバー2（HELLDIVERS 2）のGameGuardエラー114で起動しない時の直し方【PC版】',
+      'ヘルダイバー2（HELLDIVERS 2）のGameGuardエラー114で起動しない時の直し方｜Easy Anti-Cheatへの切り替え後の対処【PC版】',
     shortTitle: 'GameGuardエラー114',
-    targetVersion: 'Steam版（Windows）',
+    checkedAt: '2026-11-09',
+    targetVersion:
+      'Steam版（Windows）。2026年10月20日の7.2.0でGameGuardからEasy Anti-Cheatに切り替え（公式）',
     symptom:
-      '起動時にnProtect GameGuardのエラー114が出てゲームが始まらない場合の、Arrowhead公式サポートの手順です。',
+      '起動時にnProtect GameGuardのエラー114が出てゲームが始まらない場合の確認手順です。2026年10月20日の7.2.0で、HELLDIVERS 2のアンチチートはGameGuardからEasy Anti-Cheatに切り替わりました。',
     conclusion:
-      'Arrowheadの公式サポートは、①exeを管理者として（Windows 11では互換モードWindows 8も）実行、②GameGuardのアンインストールと再インストール、③常駐ツールの停止、④セキュリティソフト、⑤古いHDD、を案内しています。ただし本記事では、保護機能を止めず検出内容を提供元に相談し、内部機器の変更は安全を確認してから判断する手順にしています。',
+      'Arrowheadは、2026年10月20日の7.2.0でアンチチートをGameGuardからEasy Anti-Cheat（EAC）に切り替えたと発表しています。GameGuardのエラー114が出る場合は、まずSteamでゲームを最新版に更新してください。以下の手順（管理者として実行、GameGuardの入れ直し、常駐ツールの確認）は、7.2.0より前のGameGuardを使っていた版でのArrowhead公式サポートの案内です。EACへの切り替えで動作環境の変更はなく、Steam Deck・Linuxでも引き続き遊べると公式は説明しています。',
     description:
-      'Arrowheadの案内には除外設定も含まれますが、除外したファイルはリアルタイムの検査対象外になります。本記事では保護を有効に保ち、検出内容を提供元に確認してから判断する手順にしています。',
+      'EACへの切り替えに合わせて不正なMODへの対策が強化され、ほかのプレイヤーに影響するMODは動かなくなり、見た目だけのMODも作者の更新が必要になる場合があると公式は案内しています。MODを入れている場合は、外してから起動を比べてください。7.2.0より前の手順では除外設定にも触れていますが、本記事では保護を有効に保ち、検出内容を提供元に確認してから判断する手順にしています。',
     causes: [
-      'GameGuardのインストール状態の破損',
+      'ゲームが7.2.0より前の版のまま（10月20日にGameGuardからEasy Anti-Cheatへ切り替え）',
+      'GameGuardのインストール状態の破損（7.2.0より前の版）',
       '常駐しているユーティリティ（不正ツールでなくても反応する場合がある）',
       'セキュリティソフト・ファイアウォール',
       '管理者権限がない状態での起動',
@@ -373,13 +379,19 @@ export const classicGameArticles: GameArticle[] = [
     ],
     quickFacts: [
       {
+        label: 'アンチチート',
+        value:
+          '2026年10月20日の7.2.0からEasy Anti-Cheat（それまではGameGuard）',
+      },
+      {
         label: 'ゲームのフォルダを開く',
         value: 'Steamで右クリック→「管理」→「ローカルファイルを閲覧」',
       },
       { label: '実行ファイル', value: 'binフォルダの「helldivers2」' },
       {
         label: 'GameGuardの再インストール',
-        value: 'toolsフォルダの「gguninst」→「GGSetup」を管理者として実行',
+        value:
+          'toolsフォルダの「gguninst」→「GGSetup」を管理者として実行（7.2.0より前の版）',
       },
       {
         label: 'Windows 11の場合',
@@ -407,7 +419,8 @@ export const classicGameArticles: GameArticle[] = [
       {
         id: 'run-as-admin',
         title: 'helldivers2を管理者として（Windows 11は互換モードも）実行する',
-        summary: '公式サポートが最初に挙げている手順です。',
+        summary:
+          'GameGuardを使っていた7.2.0より前の版で、公式サポートが最初に挙げていた手順です。先にSteamでゲームを最新版に更新し、それでもエラー114が出る場合に試します。',
         time: '約3分',
         risk: 'low',
         actions: [
@@ -422,7 +435,8 @@ export const classicGameArticles: GameArticle[] = [
       {
         id: 'reinstall-gameguard',
         title: 'GameGuardをアンインストールして入れ直す',
-        summary: 'ゲームのフォルダにあるGameGuardのツールを使います。',
+        summary:
+          '7.2.0より前の版で、ゲームのフォルダにあるGameGuardのツールを使う手順です。最新版のフォルダにツールが見当たらない場合は、この手順は対象外です。',
         time: '約5分',
         risk: 'low',
         actions: [
@@ -452,7 +466,8 @@ export const classicGameArticles: GameArticle[] = [
       '改変ツール・チートツールを使わない（アンチチートが反応する）',
     ],
     cautions: [
-      '上の手順で直らない場合は、Arrowheadのサポートに問い合わせてください。',
+      '2026年10月20日の7.2.0でアンチチートがEasy Anti-Cheatに切り替わりました（11月9日確認）。手順の一部は切り替え前の版の情報です。',
+      'EACなどが不正ではないMODやソフトを止めていると感じる場合や、上の手順で直らない場合は、Arrowheadの公式サポート（Zendesk）に問い合わせるよう案内されています。',
     ],
     faqs: [
       {
@@ -460,6 +475,11 @@ export const classicGameArticles: GameArticle[] = [
           'Windows Defenderしか使っていませんが、例外設定は必要ですか？',
         answer:
           '自動的に追加する必要はありません。Arrowheadは除外設定にも言及していますが、リアルタイムの検査対象外になるリスクがあります。公式ファイルへの検出かを確認し、保護を有効にしたまま提供元かArrowheadに相談してください。',
+      },
+      {
+        question: 'Easy Anti-Cheatに変わって、動作環境は変わりましたか？',
+        answer:
+          '公式によると、動作環境の変更はありません。Steam Deck・Linuxでも引き続き遊べます。',
       },
       {
         question: 'GameGuardを入れ直すとセーブは消えますか？',
@@ -479,13 +499,18 @@ export const classicGameArticles: GameArticle[] = [
         url: 'https://arrowhead.zendesk.com/hc/en-us/articles/14732747845020-I-receive-Error-114-when-attempting-to-launch-HELLDIVERS-2',
       },
       {
+        label:
+          'Steamニュース（公式）：Changing anti-cheat in HELLDIVERS 2（GameGuardからEasy Anti-Cheatへの切り替え・MOD・動作環境）',
+        url: 'https://store.steampowered.com/news/app/553850',
+      },
+      {
         label: 'Steamストア：HELLDIVERS 2',
         url: 'https://store.steampowered.com/app/553850/',
       },
     ],
     related: [],
     metaDescription:
-      'ヘルダイバー2（HELLDIVERS 2）でGameGuardのエラー114が出て起動しない時の直し方。Arrowheadの案内を基に、管理者・互換モード、GameGuardの再インストール、常駐ツールと保護履歴の確認を解説。',
+      'ヘルダイバー2（HELLDIVERS 2）でGameGuardのエラー114が出て起動しない時の直し方。2026年10月20日にアンチチートがEasy Anti-Cheatに切り替わったことと、まず最新版に更新する手順、切り替え前の管理者・互換モードやGameGuardの再インストール、MOD・常駐ツールの確認を解説。',
   }),
   make({
     gameSlug: 'hogwarts-legacy',

diff --git a/lib/article-review-index.ts b/lib/article-review-index.ts
@@ -1551,7 +1551,7 @@ export const articleReviews: Record<string, Omit<ArticleReview, 'path'>> = {
     title:
       'Castlevania: Belmont’s Curse（キャッスルヴァニア ベルモンドの呪い）が起動しない・黒い画面のまま進まない時の対処法【PC版】',
     gameSlug: 'castlevania-belmonts-curse',
-    checkedOn: '2026-10-17',
+    checkedOn: '2026-11-09',
     steps: [
       {
         id: 'step-5',
@@ -1586,7 +1586,7 @@ export const articleReviews: Record<string, Omit<ArticleReview, 'path'>> = {
     title:
       'Phantom Blade Zero（ファントムブレード ゼロ）が起動しない・重い時の対処法【PC版】',
     gameSlug: 'phantom-blade-zero',
-    checkedOn: '2026-10-30',
+    checkedOn: '2026-11-09',
     steps: [
       { id: 'step-1', title: 'SSDにインストールされているか確認する' },
       { id: 'step-2', title: 'GPUが最低環境を満たすか確認する' },
@@ -1712,9 +1712,9 @@ export const articleReviews: Record<string, Omit<ArticleReview, 'path'>> = {
   },
   '/games/helldivers-2/gameguard-error-114': {
     title:
-      'ヘルダイバー2（HELLDIVERS 2）のGameGuardエラー114で起動しない時の直し方【PC版】',
+      'ヘルダイバー2（HELLDIVERS 2）のGameGuardエラー114で起動しない時の直し方｜Easy Anti-Cheatへの切り替え後の対処【PC版】',
     gameSlug: 'helldivers-2',
-    checkedOn: '2026-09-29',
+    checkedOn: '2026-11-09',
     steps: [
       {
         id: 'run-as-admin',

diff --git a/lib/og-image-manifest.ts b/lib/og-image-manifest.ts
@@ -171,7 +171,7 @@ export const ogImageManifest: Record<string, string> = {
   "/en/games/palworld/not-launching": "bcdf4845",
   "/en/games/palworld/save-data": "808205b4",
   "/en/games/palworld/system-requirements": "f6b26c26",
-  "/en/games/phantom-blade-zero/not-launching": "1b8a61a9",
+  "/en/games/phantom-blade-zero/not-launching": "d1b07f96",
   "/en/games/planet-zoo-2": "7cd4edd4",
   "/en/games/planet-zoo-2/crashing-autosave": "fd052d81",
   "/en/games/planet-zoo-2/franchise-save-not-loading": "a2bc1aeb",
@@ -415,7 +415,7 @@ export const ogImageManifest: Record<string, string> = {
   "/games/gta-v-enhanced": "0ea2384e",
   "/games/gta-v-enhanced/story-save-migration": "8e2715a1",
   "/games/helldivers-2": "3dc91980",
-  "/games/helldivers-2/gameguard-error-114": "c0c36382",
+  "/games/helldivers-2/gameguard-error-114": "d7f8a7a4",
   "/games/hogwarts-legacy": "f28294c8",
   "/games/hogwarts-legacy/crash": "ac0cf46d",
   "/games/marvel-rivals": "f324b46f",
